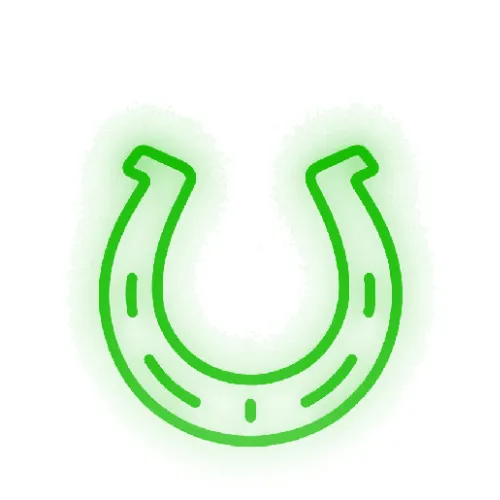
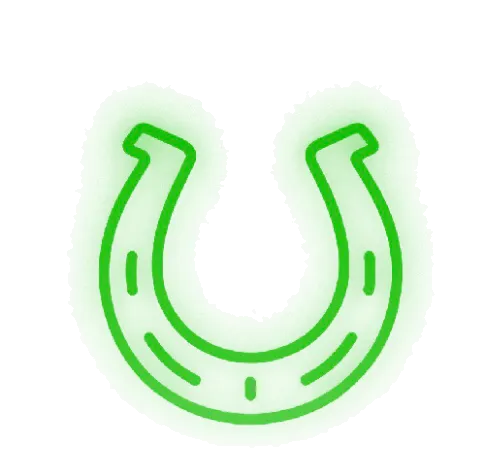
ライトモードアイコン調整

Changed region(s): [[0.18, 0.6087, 0.81, 0.9435], [0.6, 0.2435, 0.81, 0.5174], [0.21, 0.2435, 0.42, 0.5174]]

diff --git a/client/src/components/layout/MainLayout.tsx b/client/src/components/layout/MainLayout.tsx
@@ -16,7 +16,7 @@ const Logo = memo(() => {
           <img 
             src="/images/horseshoe-icon-light.webp" 
             alt="馬券戦略アプリロゴ" 
-            className="h-9 w-9 rounded-lg shadow-sm"
+            className="h-9 w-9 rounded-lg"
             width="36"
             height="36"
             decoding="async"
